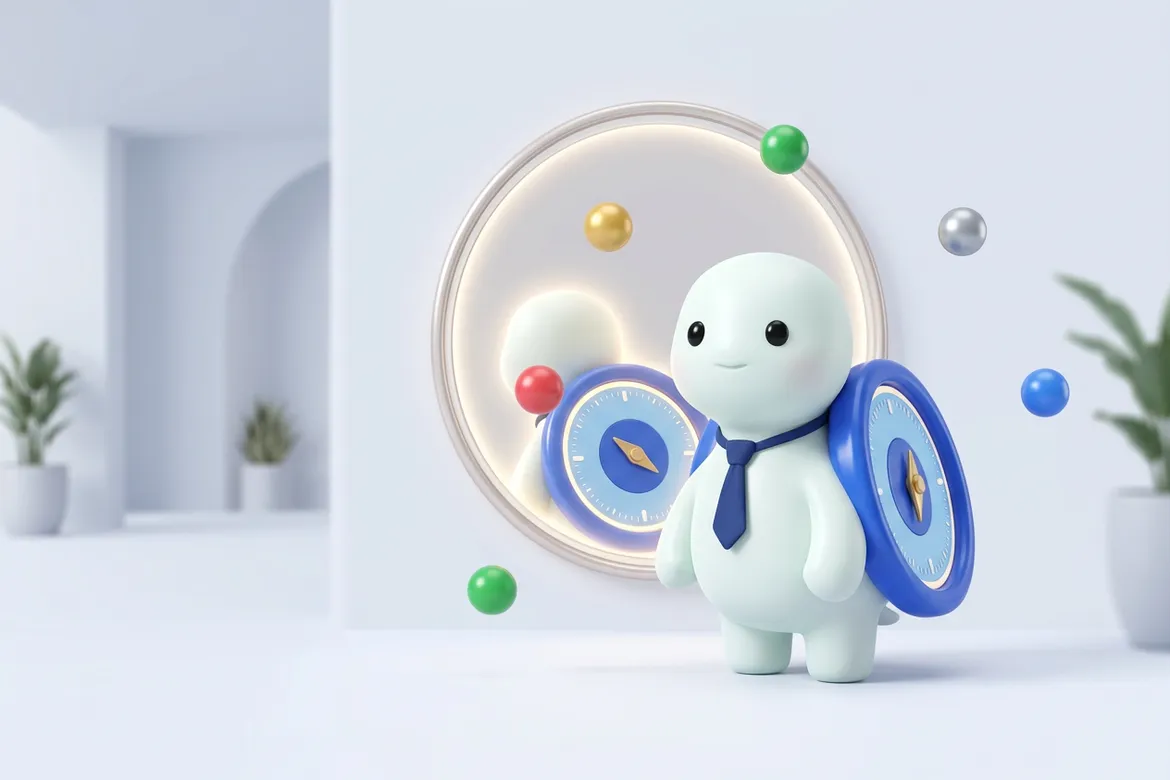
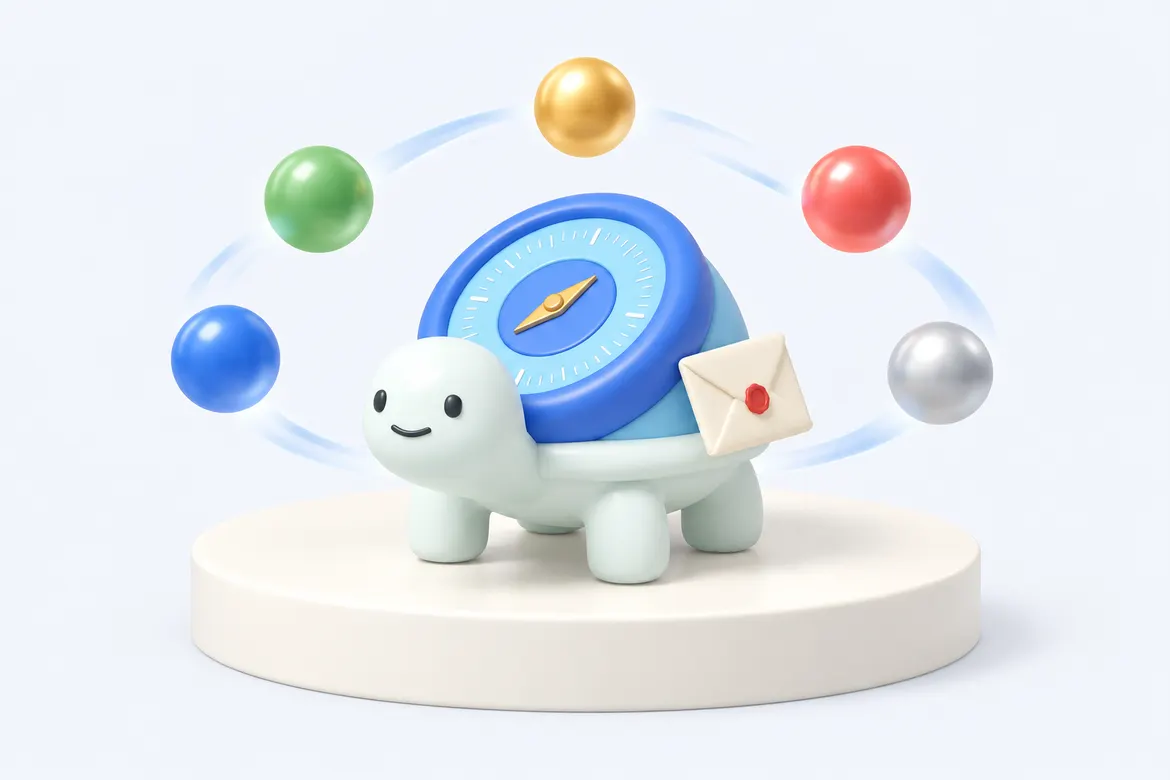
fix(brand): 두 발로 선 거북 그림을 빼고 네 발 거북 장면으로 통일, 13곳에 배치
대표 지적: 메인의 거북이 두 발로 서 있다. 처음 뽑은 표정 세트와 대표·택일 상세 그림이 그랬다.
대표가 새로 뽑은 28장(네 발 거북으로 통일)에서 자리에 맞는 장면을 골랐다.

- 상세 8종: 대표 사주=오행 구슬, 투찰 택일=입찰함에 봉투, 나머지 6종은 새 그림 그대로
- 홈=문 열고 맞이, 계산 중=돋보기 분석, 결제 완료=별 아치, 빈 보관함=망원경, 404=갈림길
- 회사 사주=새싹, 발주처=발주처로 가는 길, 자리=사무실 도면, 택일=다리 건너기, 샘플=책상 분석,
  후기=둘러앉은 탁자, 요금=우산, 사업운세=사계절
- 앞발로 트로피를 든 장면(반쯤 일어선 자세)은 쓰지 않았다
- 그림 21장 합계 317KB

diff --git a/app/_components/Mascot.tsx b/app/_components/Mascot.tsx
@@ -1,28 +1,42 @@
 // 낙찰사주 캐릭터 — 나경 거북(2026-10-20).
-// 등딱지가 풍수 나침반(나경)이고 등에 입찰서 봉투를 진 거북이다. 원본은 Desktop\낙찰사주_캐릭터, Figma 「낙찰사주 브랜드 캐릭터」.
-// 그림 바탕이 흰색이라 mix-blend-mode: multiply 로 겹친다. 흰 바탕·연회색 바탕 어디에 놓아도 네모가 보이지 않는다.
-export type MascotPose = 'hi' | 'think' | 'caution' | 'empty' | 'yay';
+// 등딱지가 풍수 나침반(나경)이고 등에 입찰서 봉투를 진 네 발 거북이다.
+// 원본은 Desktop\낙찰사주_캐릭터\상세페이지(+추가20종), 프롬프트는 같은 폴더의 생성프롬프트.txt.
+//
+// 처음 만든 표정 세트는 거북이 두 발로 서 있어서 뺐다(2026-10-20 대표 지적).
+// 새 그림은 모두 네 발로 선 거북이고, 가로 3:2 장면이다. 바탕이 연한 하늘빛(#f3f6fc)이라
+// 둥근 모서리 카드로 놓는다.
+export type MascotArt =
+  | 'welcome' | 'think' | 'milestone' | 'opportunity' | 'crossroad'
+  | 'growth' | 'client' | 'office' | 'timing' | 'consult' | 'team' | 'safe' | 'season';
 
-const ALT: Record<MascotPose, string> = {
-  hi: '인사하는 낙찰사주 거북',
-  think: '명식을 계산하는 낙찰사주 거북',
-  caution: '조심하라고 알려 주는 낙찰사주 거북',
-  empty: '빈 봉투를 들여다보는 낙찰사주 거북',
-  yay: '기뻐하는 낙찰사주 거북',
+const ALT: Record<MascotArt, string> = {
+  welcome: '문을 열고 맞이하는 낙찰사주 거북',
+  think: '돋보기로 결과를 살피는 낙찰사주 거북',
+  milestone: '별이 걸린 아치 아래에 선 낙찰사주 거북',
+  opportunity: '망원경으로 기회를 찾는 낙찰사주 거북',
+  crossroad: '갈림길에서 방향을 고르는 낙찰사주 거북',
+  growth: '새싹에 물을 주는 낙찰사주 거북',
+  client: '발주처 건물로 걸어가는 낙찰사주 거북',
+  office: '사무실 도면 위에서 자리를 고르는 낙찰사주 거북',
+  timing: '다리를 건너 금빛 동전으로 가는 낙찰사주 거북',
+  consult: '책상에서 결과를 살피는 낙찰사주 거북',
+  team: '탁자에 둘러앉은 낙찰사주 거북들',
+  safe: '우산 아래에 선 낙찰사주 거북',
+  season: '사계절 사이에 선 낙찰사주 거북',
 };
 
-export default function Mascot({ pose, size = 120, className = '', decorative = false }: {
-  pose: MascotPose; size?: number; className?: string; decorative?: boolean;
+export default function Mascot({ art, width = 360, className = '', decorative = false, eager = false }: {
+  art: MascotArt; width?: number; className?: string; decorative?: boolean; eager?: boolean;
 }) {
   return (
     <img
       className={'mascot' + (className ? ' ' + className : '')}
-      src={`/char/${pose}.webp`}
-      width={size}
-      height={size}
-      alt={decorative ? '' : ALT[pose]}
+      src={`/char/${art}.webp`}
+      width={width}
+      height={Math.round(width * 2 / 3)}
+      alt={decorative ? '' : ALT[art]}
       aria-hidden={decorative || undefined}
-      loading="lazy"
+      loading={eager ? 'eager' : 'lazy'}
       decoding="async"
     />
   );

diff --git a/app/ui.css b/app/ui.css
@@ -412,15 +412,14 @@ html body .home5 .prose .calcrow b{color:var(--u-blue-ink)}
 html body .home5 .prose .calcrow span{color:var(--u-sub)}
 
 /* 캐릭터 — 나경 거북 (app/_components/Mascot.tsx, 2026-10-20)
-   그림 바탕이 흰색이라 multiply 로 겹쳐 바탕색에 녹인다. */
-html body .mascot{display:block;mix-blend-mode:multiply;user-select:none;-webkit-user-drag:none;height:auto;max-width:100%}
+   네 발로 선 거북의 가로 3:2 장면. 바탕이 연한 하늘빛이라 둥근 카드로 놓는다. */
+html body .mascot{display:block;height:auto;max-width:100%;aspect-ratio:3/2;object-fit:cover;border-radius:14px;background:#f3f6fc;user-select:none;-webkit-user-drag:none}
 html body .mascot.center{margin-left:auto;margin-right:auto}
-@keyframes mascot-bob{0%,100%{transform:translateY(0)}50%{transform:translateY(-6px)}}
-html body .mascot.bob{animation:mascot-bob 1.6s ease-in-out infinite}
-@media (prefers-reduced-motion: reduce){html body .mascot.bob{animation:none}}
-
-/* 계산 중 화면 — 어두운 영상 대신 계산하는 거북 */
-html body .rite .ritechar{display:flex;justify-content:center;align-items:flex-end;height:150px;margin:-4px -2px 4px;border-radius:10px;background:var(--u-soft,#f4f5f7)}
-
-/* 홈 첫 화면 — 인사하는 거북. 제목 위에 둔다(옆에 두면 좁은 화면에서 제목과 겹친다) */
-html body .h6-intro .h6-mascot{width:84px;height:auto;margin:0 0 6px -6px}
+html body .mascot.pagepic{margin-bottom:18px}
+/* 콘텐츠 페이지 머리 아래 장면 그림 */
+html body .mascot.pageart{width:calc(100% - 40px);max-width:520px;margin:16px auto 4px}
+/* 홈 첫 화면 — 제목 위 작은 그림(옆에 두면 좁은 화면에서 제목과 겹친다) */
+html body .h6-intro .h6-mascot{width:132px;margin:0 0 10px;border-radius:12px}
+/* 계산 중 화면 — 어두운 영상 대신 분석하는 거북 */
+html body .rite .ritechar{display:flex;justify-content:center;align-items:center;height:150px;margin:-4px -2px 4px;border-radius:10px;background:#f3f6fc;overflow:hidden}
+html body .rite .ritechar .ritepic{height:150px;width:auto;border-radius:0}

diff --git a/app/samples/page.tsx b/app/samples/page.tsx
@@ -4,6 +4,7 @@ import { ogCard } from '@/lib/og';
 const CARD = { seal: '例', k: 'SAMPLE 四柱', t: '이런 결과가 나옵니다', s: '가상 대표 3인의 예시 리포트' };
 import Link from 'next/link';
 import SiteTop from '@/app/_components/SiteTop';
+import Mascot from '@/app/_components/Mascot';
 
 export const metadata: Metadata = {
   title: '샘플 리포트: 이런 결과가 나옵니다',
@@ -28,6 +29,7 @@ export default function SamplesPage() {
   return (
     <div className="app home">
       <SiteTop />
+      <Mascot art="consult" className="pageart" eager />
       <div style={{ padding: '18px 18px 4px' }}>
         <div style={{ fontSize: 13, color: '#2f56c4', fontWeight: 700, marginBottom: 6 }}>샘플 리포트</div>
         <h1 style={{ fontFamily: 'var(--serif)', fontWeight: 900, fontSize: 22, lineHeight: 1.4, color: 'var(--ink)', margin: '2px 0 8px' }}>이런 결과가 나옵니다</h1>

diff --git a/app/jari/page.tsx b/app/jari/page.tsx
@@ -7,6 +7,7 @@ import Link from 'next/link';
 import JariMap from '@/app/_components/JariMap';
 import ScrollReveal from '@/app/_components/ScrollReveal';
 import SiteTop from '@/app/_components/SiteTop';
+import Mascot from '@/app/_components/Mascot';
 
 export const metadata: Metadata = {
   // 레이아웃 템플릿이 ' · 낙찰사주'를 뒤에 붙인다. 여기서 또 붙이면 두 번 나온다.
@@ -40,6 +41,7 @@ export default function Jari() {
       <script type="application/ld+json" dangerouslySetInnerHTML={{ __html: JSON.stringify(ld) }} />
       <ScrollReveal />
       <SiteTop />
+      <Mascot art="office" className="pageart" eager />
 
       <div className="hero"><div className="kick">자리 사주</div>
         <h1 style={{ fontSize: 17, marginTop: 8, lineHeight: 1.35 }}>사무실을 옮기기 전에,<br />어느 쪽인지부터</h1>

diff --git a/app/taekil/page.tsx b/app/taekil/page.tsx
@@ -6,6 +6,7 @@ import TaekilPick from '@/app/_components/TaekilPick';
 import { ogCard, ogCardUrl } from '@/lib/og';
 import { kstYmd } from '@/lib/kst';
 import SiteTop from '@/app/_components/SiteTop';
+import Mascot from '@/app/_components/Mascot';
 
 // "앞으로 90일" 목록이라 배포 때 한 번 구우면 며칠 뒤엔 지난 날짜를 보여준다. 한 시간마다 다시 굽는다.
 export const revalidate = 3600;
@@ -39,6 +40,7 @@ export default function TaekilHub() {
       <script type="application/ld+json" dangerouslySetInnerHTML={{ __html: JSON.stringify(ld) }} />
 
       <SiteTop />
+      <Mascot art="timing" className="pageart" eager />
 
       <div style={{ padding: '18px 18px 4px' }}>
         <div style={{ fontSize: 13, color: '#2f56c4', fontWeight: 700, marginBottom: 6 }}>택일</div>

diff --git a/app/hoesa/page.tsx b/app/hoesa/page.tsx
@@ -15,6 +15,7 @@ import Link from 'next/link';
 import { ogCard, ogCardUrl } from '@/lib/og';
 import { bizFooterLine } from '@/lib/bizinfo';
 import SiteTop from '@/app/_components/SiteTop';
+import Mascot from '@/app/_components/Mascot';
 import { josa } from '@/lib/josa';
 import {
   companyChart, companyDaeun, companySeun, elBalance, blockPhases, yearsAhead, CO_STRONG, CO_WEAK,
@@ -66,6 +67,7 @@ export default function Hoesa({ searchParams }: { searchParams: { d?: string; n?
       <script type="application/ld+json" dangerouslySetInnerHTML={{ __html: JSON.stringify(ld) }} />
 
       <SiteTop />
+      <Mascot art="growth" className="pageart" eager />
       <div className="hero">
         <h1>우리 회사의 사주</h1>
         <p>설립일만 넣으면 30초 · 가입도 결제도 없습니다</p>

diff --git a/app/review/page.tsx b/app/review/page.tsx
@@ -16,6 +16,7 @@ import { bizFooterLine } from '@/lib/bizinfo';
 import { BIZ, NICK_MAX, BODY_MIN, BODY_MAX, stars, averageRating } from '@/lib/reviews';
 import { listPublicReviews } from '@/lib/reviews-db';
 import SiteTop from '@/app/_components/SiteTop';
+import Mascot from '@/app/_components/Mascot';
 import './review.css';
 
 export const revalidate = 300;   // 승인된 후기는 5분 안에 반영된다(매 요청 서버 렌더 금지)
@@ -49,6 +50,7 @@ export default async function ReviewPage({ searchParams }: { searchParams: { sen
   return (
     <div className="app">
       <SiteTop />
+      <Mascot art="team" className="pageart" eager />
       <div className="hero">
         <h1>써 본 대표들의 말</h1>
         <p>지어낸 후기는 싣지 않습니다</p>

diff --git a/app/vault/page.tsx b/app/vault/page.tsx
@@ -39,7 +39,7 @@ export default function Vault() {
       <div className="sechd"><span className="t"><span className="b" />내 리포트</span><span className="m">{items.length}건</span></div>
       {items.length === 0 && (
         <div className="emptybox">
-          <Mascot pose="empty" size={120} className="center" decorative />
+          <Mascot art="opportunity" width={240} className="center pagepic" decorative />
           <div className="ebtit">아직 열어본 리포트가 없습니다</div>
           <div className="ebtx">대표님의 사주와 오늘의 투찰 택일부터<br />무료로 확인해 보세요.</div>
           <Link className="ebcta" href="/reading">오늘의 전망 열기 <span>· 무료 · 30초 →</span></Link>

diff --git a/app/balju/page.tsx b/app/balju/page.tsx
@@ -8,6 +8,7 @@ import PersonPicker from '@/app/_components/PersonPicker';
 import BaljuMap from '@/app/_components/BaljuMap';
 import { type Person } from '@/lib/people';
 import SiteTop from '@/app/_components/SiteTop';
+import Mascot from '@/app/_components/Mascot';
 
 export default function Balju() {
   const [q, setQ] = useState('');
@@ -35,6 +36,7 @@ export default function Balju() {
       <script type="application/ld+json" dangerouslySetInnerHTML={{ __html: JSON.stringify(itemListLd) }} />
       <ScrollReveal />
       <SiteTop />
+      <Mascot art="client" className="pageart" eager />
 
       <div className="hero">
         <h1 style={{ fontSize: 17, marginTop: 8, lineHeight: 1.35 }}>어느 발주처와<br />붙어볼까요</h1>

diff --git a/app/pricing/page.tsx b/app/pricing/page.tsx
@@ -5,6 +5,7 @@ import { bizFooterLine } from '@/lib/bizinfo';
 
 import { ogCard } from '@/lib/og';
 import SiteTop from '@/app/_components/SiteTop';
+import Mascot from '@/app/_components/Mascot';
 
 export const metadata = {
   title: '이용안내·요금', description: '낙찰사주 상품 안내와 판매가, 청약철회·환불 정책, 사업자정보.',
@@ -42,6 +43,7 @@ export default function Pricing() {
   return (
     <div className="app">
       <SiteTop />
+      <Mascot art="safe" className="pageart" eager />
       <div className="hero"><h1>이용안내 · 요금</h1>
         <p><Link href="/" style={{ color: '#d8cba0', textDecoration: 'underline' }}>← 홈으로</Link></p></div>
       <div className="wrap">

diff --git a/app/saeobunse/[year]/page.tsx b/app/saeobunse/[year]/page.tsx
@@ -3,6 +3,7 @@ import Link from 'next/link';
 import { notFound } from 'next/navigation';
 import { ogCard } from '@/lib/og';
 import SiteTop from '@/app/_components/SiteTop';
+import Mascot from '@/app/_components/Mascot';
 
 const BASE = 'https://nakchalsaju.com';
 const MIN = 2026, MAX = 2035;
@@ -104,6 +105,7 @@ export default function YearPage({ params }: { params: { year: string } }) {
   return (
     <div className="app home">
       <SiteTop />
+      <Mascot art="season" className="pageart" eager />
       <script type="application/ld+json" dangerouslySetInnerHTML={{ __html: JSON.stringify(jsonld) }} />
 
       <div style={{ padding: '18px 18px 4px' }}>

diff --git a/app/not-found.tsx b/app/not-found.tsx
@@ -22,7 +22,7 @@ export default function NotFound() {
   return (
     <div className="app">
       <SiteTop />
-      <div className="hero"><Mascot pose="empty" size={120} className="center" decorative /><h1>찾으시는 페이지가 없습니다</h1>
+      <div className="hero"><Mascot art="crossroad" width={300} className="center pagepic" decorative eager /><h1>찾으시는 페이지가 없습니다</h1>
         <p>주소가 바뀌었거나 정리된 글일 수 있습니다.</p></div>
       <div className="wrap">
         <div className="card" style={{ lineHeight: 1.8, fontSize: 15, color: '#3a3f47' }}>
